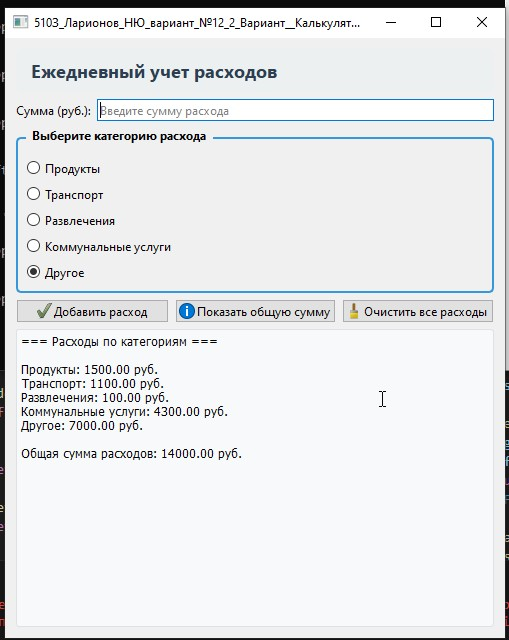
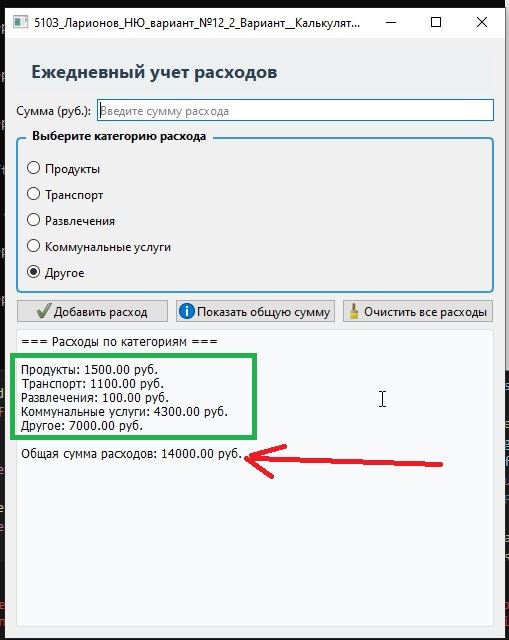
correct readme

Changed region(s): [[0.0, 0.5312, 0.5894, 0.75], [0.5894, 0.7188, 0.8841, 0.75]]

diff --git a/README.md b/README.md
@@ -47,3 +47,17 @@
       <p align="center">Новй расход успешно отражен в списке</p>
    </p>
 </figure>
+
+<figure>
+   <p align="center">
+      <img src="https://github.com/dr-number/Lab3__PyQT_Event_Handlers_Signals-_Slots_Week_2_Assignment/blob/main/for_read_me/3_add_other.jpg">
+      <p align="center">Добавление других расходов</p>
+   </p>
+</figure>
+
+<figure>
+   <p align="center">
+      <img src="https://github.com/dr-number/Lab3__PyQT_Event_Handlers_Signals-_Slots_Week_2_Assignment/blob/main/for_read_me/4_add_other_check_summ.jpg">
+      <p align="center">Проверка подсчета общей суммы</p>
+   </p>
+</figure>
